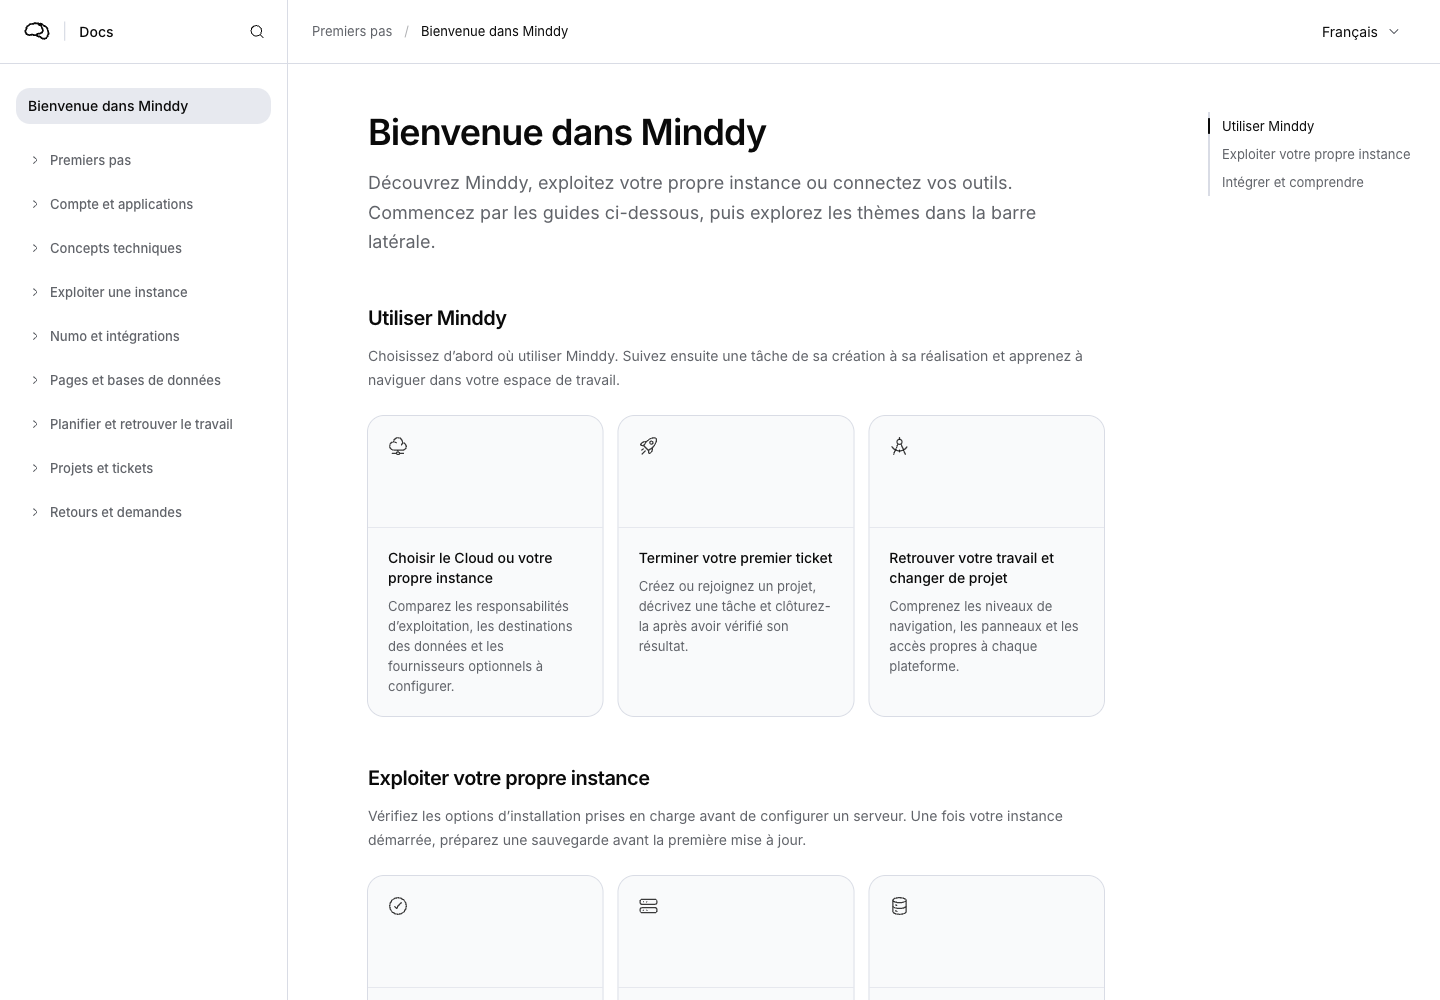
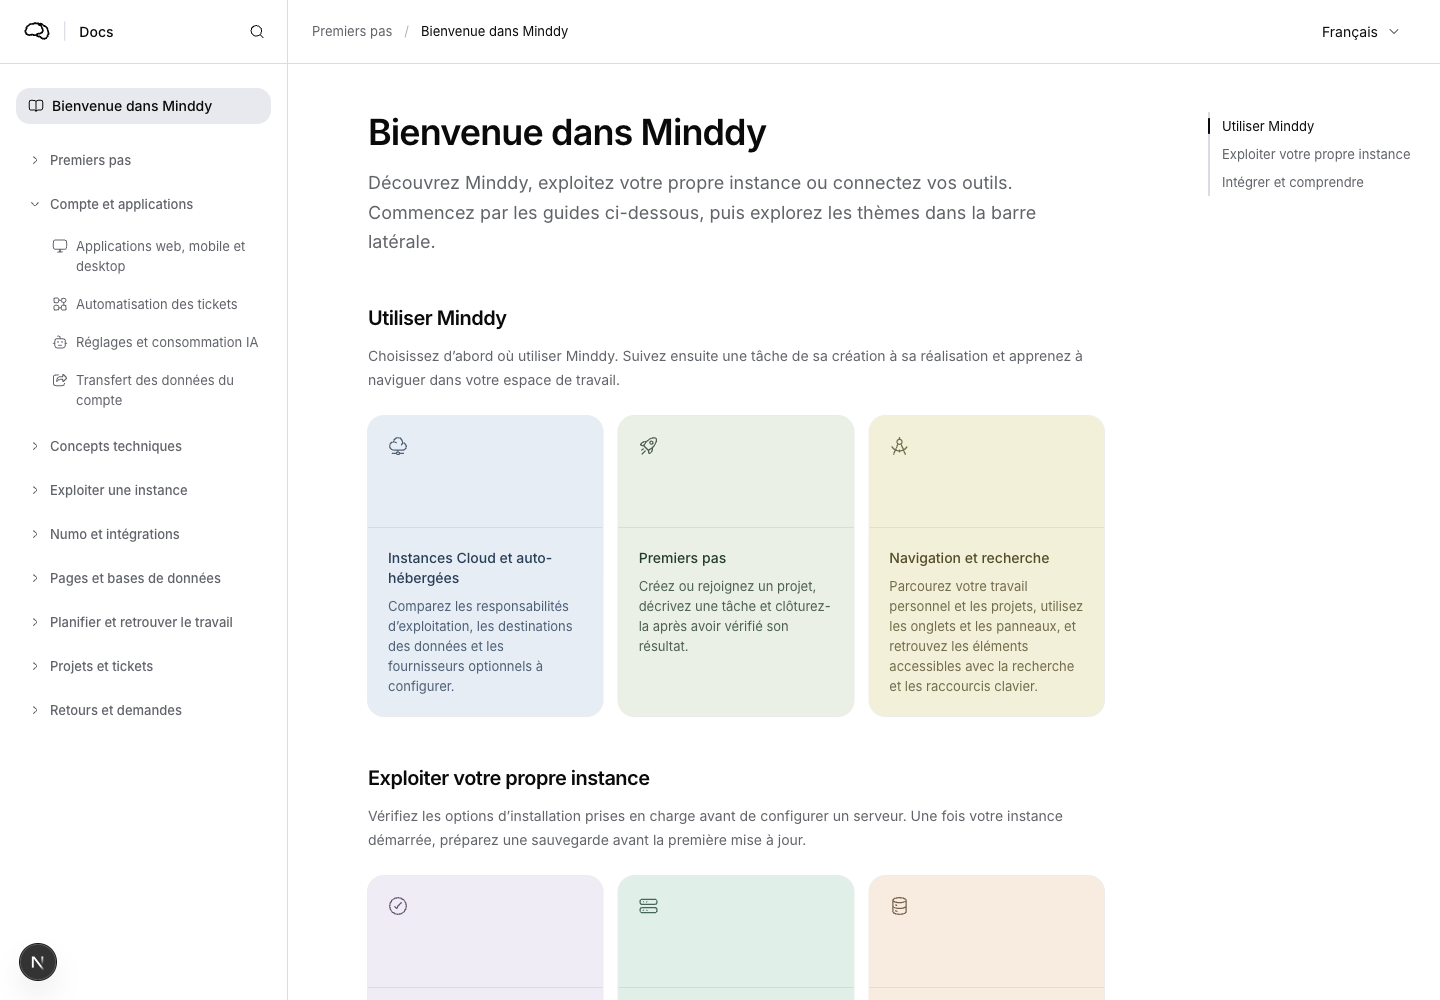
feat(docs): add pastel guides and article navigation

diff --git a/components/documentation/documentation-article.tsx b/components/documentation/documentation-article.tsx
@@ -1,17 +1,26 @@
 import ReactMarkdown from "react-markdown";
 import remarkGfm from "remark-gfm";
 import { getTranslations } from "next-intl/server";
+import Link from "next/link";
+import { Button } from "mangue-ui";
+import { HugeiconsIcon } from "@hugeicons/react";
+import { ArrowLeft01Icon, ArrowRight01Icon } from "@hugeicons/core-free-icons";
 import { ReadOnlyCodeBlock } from "@/components/assistant/shared-code-renderer";
 import type { DocumentationArticle } from "@/lib/documentation";
 import { documentationBlocks, documentationPath, localizeDocumentationLink } from "@/lib/documentation-core.mjs";
 import { extractCodeBlock } from "@/lib/markdown-code";
 import { DocumentationShell } from "./documentation-shell";
 import { DocumentationErrorReport } from "./report-error";
+import { DocumentationIcon } from "./documentation-icon";
 
 export async function DocumentationArticleView({ article, articles }: { article: DocumentationArticle; articles: DocumentationArticle[] }) {
   const t = await getTranslations({ locale: article.locale, namespace: "Documentation" });
   const chunks = documentationBlocks(article.content);
   const related = articles.filter(item => article.related.includes(item.id));
+  const topicArticles = articles.filter(item => item.topic === article.topic);
+  const articleIndex = topicArticles.findIndex(item => item.id === article.id);
+  const previous = articleIndex > 0 ? topicArticles[articleIndex - 1] : undefined;
+  const next = articleIndex >= 0 ? topicArticles[articleIndex + 1] : undefined;
   return <DocumentationShell articles={articles} locale={article.locale} currentId={article.id}
     title={article.title} topic={article.topic} sections={article.sections}>
     <h1 className="text-3xl font-semibold tracking-tight sm:text-4xl">{article.title}</h1>
@@ -38,9 +47,30 @@ export async function DocumentationArticleView({ article, articles }: { article:
         </section>;
       })}
     </div>
-    {!!related.length && <section className="mt-12 border-t border-border pt-6"><h2 className="font-semibold">{t("related")}</h2><ul className="mt-3 space-y-2">{related.map(item => <li key={item.id}><a href={documentationPath(item.id, article.locale)} className="underline underline-offset-4">{item.title}</a></li>)}</ul></section>}
+    {!!related.length && <section className="mt-12 border-t border-border pt-6">
+      <h2 className="font-semibold">{t("related")}</h2>
+      <ul className="mt-3 flex flex-wrap gap-2">{related.map(item => <li key={item.id} className="max-w-full">
+        <Button asChild variant="outline" className="h-auto min-h-11 max-w-full justify-start whitespace-normal text-left">
+          <Link href={documentationPath(item.id, article.locale)} prefetch={false}>
+            <DocumentationIcon articleId={item.id} className="size-4 shrink-0" /><span className="min-w-0">{item.title}</span>
+          </Link>
+        </Button>
+      </li>)}</ul>
+    </section>}
     <DocumentationErrorReport subject={`${t("articleLabel")}: ${article.id} (${article.locale})`}
       body={`${t("articleLabel")}: ${article.id}\n${t("localeLabel")}: ${article.locale}\n${t("revisionLabel")}: ${article.revision}\n\n`}
       label={t("report")} />
+    {(previous || next) && <nav aria-label={t("articleNavigation")} className="mt-8 grid grid-cols-1 gap-3 border-t border-border pt-6 sm:grid-cols-2">
+      {previous && <Link href={documentationPath(previous.id, article.locale)} prefetch={false} rel="prev"
+        className="group flex min-w-0 flex-col gap-3 rounded-lg border border-border p-4 transition-colors hover:bg-muted/50 focus-visible:outline-2 focus-visible:outline-offset-2 focus-visible:outline-ring">
+        <span className="flex items-center gap-2 text-xs text-muted-foreground"><HugeiconsIcon icon={ArrowLeft01Icon} className="size-4 shrink-0" aria-hidden />{t("previousArticle")}</span>
+        <span className="flex items-start gap-2 text-sm font-medium"><DocumentationIcon articleId={previous.id} className="mt-0.5 size-4 shrink-0" /><span>{previous.title}</span></span>
+      </Link>}
+      {next && <Link href={documentationPath(next.id, article.locale)} prefetch={false} rel="next"
+        className="group flex min-w-0 flex-col items-end gap-3 rounded-lg border border-border p-4 text-right transition-colors hover:bg-muted/50 focus-visible:outline-2 focus-visible:outline-offset-2 focus-visible:outline-ring sm:col-start-2">
+        <span className="flex items-center gap-2 text-xs text-muted-foreground">{t("nextArticle")}<HugeiconsIcon icon={ArrowRight01Icon} className="size-4 shrink-0" aria-hidden /></span>
+        <span className="flex items-start gap-2 text-sm font-medium"><DocumentationIcon articleId={next.id} className="mt-0.5 size-4 shrink-0" /><span>{next.title}</span></span>
+      </Link>}
+    </nav>}
   </DocumentationShell>;
 }

diff --git a/components/documentation/documentation-welcome.tsx b/components/documentation/documentation-welcome.tsx
@@ -1,12 +1,13 @@
 import { getTranslations } from "next-intl/server";
 import Link from "next/link";
-import { Card, CardContent } from "mangue-ui";
+import { Card, CardContent, cn } from "mangue-ui";
 import { HugeiconsIcon } from "@hugeicons/react";
 import { ArrowRight01Icon } from "@hugeicons/core-free-icons";
 import type { Locale } from "@/i18n/config";
 import type { DocumentationArticle } from "@/lib/documentation";
 import { documentationPath } from "@/lib/documentation-core.mjs";
 import { localizedHref } from "@/lib/locale-href";
+import { CARD_TONES } from "@/components/marketing/card-tones";
 import { DocumentationShell } from "./documentation-shell";
 import { DocumentationIcon } from "./documentation-icon";
 
@@ -16,13 +17,13 @@ export async function DocumentationWelcome({ articles, locale, query = "", previ
 }) {
   const t = await getTranslations({ locale, namespace: "Documentation" });
   const guides = [
-    { id: "use", title: t("use"), intro: t("welcomeUse"), articles: [
+    { id: "use", title: t("use"), intro: t("welcomeUse"), tones: [CARD_TONES.sky, CARD_TONES.sage, CARD_TONES.butter], articles: [
       "choose-an-instance", "first-project", "navigation",
     ] },
-    { id: "operate", title: t("operate"), intro: t("welcomeOperate"), articles: [
+    { id: "operate", title: t("operate"), intro: t("welcomeOperate"), tones: [CARD_TONES.lavender, CARD_TONES.mint, CARD_TONES.peach], articles: [
       "installation", "instance-configuration", "backups-and-restoration",
     ] },
-    { id: "integrate", title: t("integrate"), intro: t("welcomeIntegrate"), articles: [
+    { id: "integrate", title: t("integrate"), intro: t("welcomeIntegrate"), tones: [CARD_TONES.rose, CARD_TONES.sky, CARD_TONES.lavender], articles: [
       "glossary-and-data-model", "architecture-and-data-flows", "minddy-mcp",
     ] },
   ];
@@ -37,19 +38,18 @@ export async function DocumentationWelcome({ articles, locale, query = "", previ
       <h2 className="text-xl font-semibold tracking-tight">{guide.title}</h2>
       <p className="mt-3 text-sm leading-6 text-muted-foreground">{guide.intro}</p>
       <ul className="mt-6 grid grid-cols-1 gap-4 @min-[26rem]:grid-cols-2 @min-[42rem]:grid-cols-3">
-        {guide.articles.map(id => {
+        {guide.articles.map((id, index) => {
           const article = articles.find(article => article.id === id);
           return article && <li key={article.id} className="min-w-0">
             <Link href={documentationPath(article.id, locale)} prefetch={false} aria-labelledby={`guide-${article.id}`}
-              className="group block h-full rounded-lg focus-visible:outline-2 focus-visible:outline-offset-4 focus-visible:outline-ring">
-              <Card className="h-full gap-0 rounded-lg bg-muted/25 py-0 ring-border transition-colors duration-200 group-hover:bg-muted/50 group-hover:ring-foreground/20 group-focus-visible:ring-ring">
-                <div className="flex h-28 shrink-0 items-start justify-between border-b border-border/60 p-5">
-                  <DocumentationIcon articleId={article.id} className="size-5 text-foreground/80" />
-                  <HugeiconsIcon icon={ArrowRight01Icon} className="size-4 -translate-x-1 text-muted-foreground opacity-0 transition-[opacity,transform] duration-200 group-hover:translate-x-0 group-hover:opacity-100 group-focus-visible:translate-x-0 group-focus-visible:opacity-100 motion-reduce:transition-none" aria-hidden />
+              className="group block h-full rounded-lg focus-visible:outline-2 focus-visible:outline-ring">
+              <Card className={cn("h-full gap-0 rounded-lg py-0 ring-current/10 group-hover:ring-current/25 group-focus-visible:ring-ring", guide.tones[index])}>
+                <div className="flex h-28 shrink-0 items-start border-b border-current/10 p-5">
+                  <DocumentationIcon articleId={article.id} className="size-5 opacity-80" />
                 </div>
                 <CardContent className="space-y-2 p-5">
                   <h3 id={`guide-${article.id}`} className="text-sm font-medium leading-5">{article.title}</h3>
-                  <p className="text-[13px] leading-5 text-muted-foreground">{article.summary}</p>
+                  <p className="text-[13px] leading-5 opacity-80">{article.summary}</p>
                 </CardContent>
               </Card>
             </Link>
